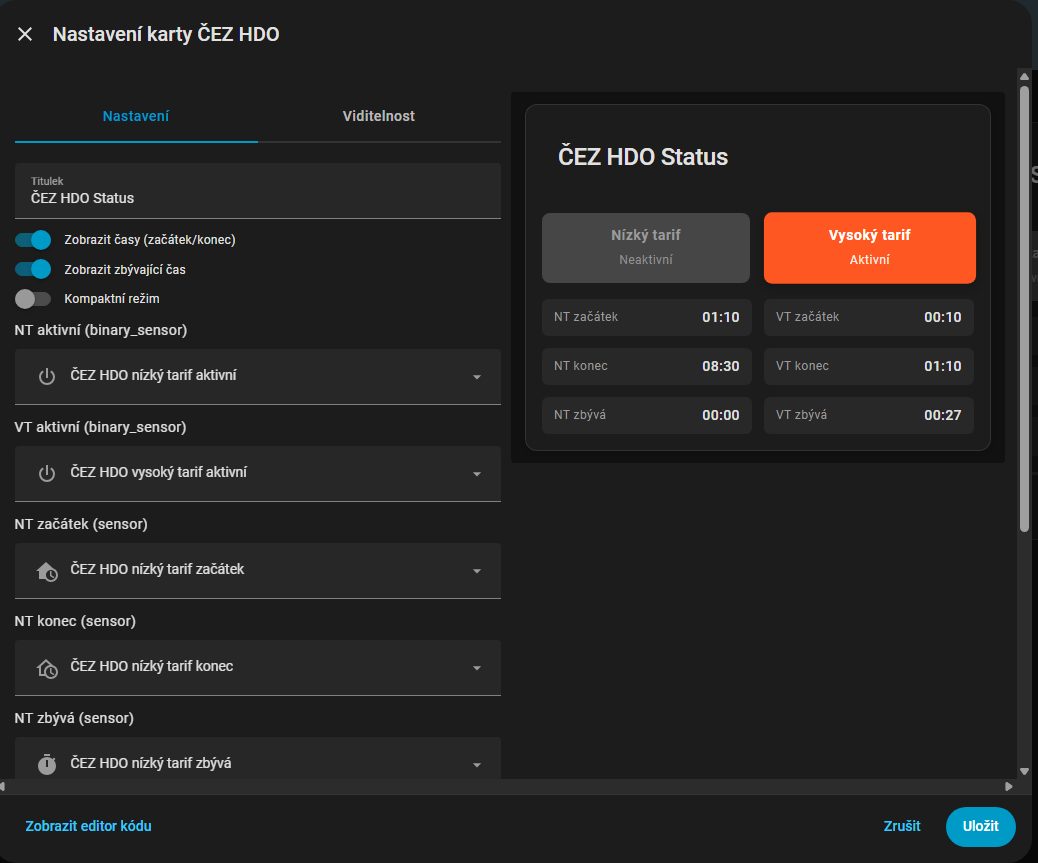
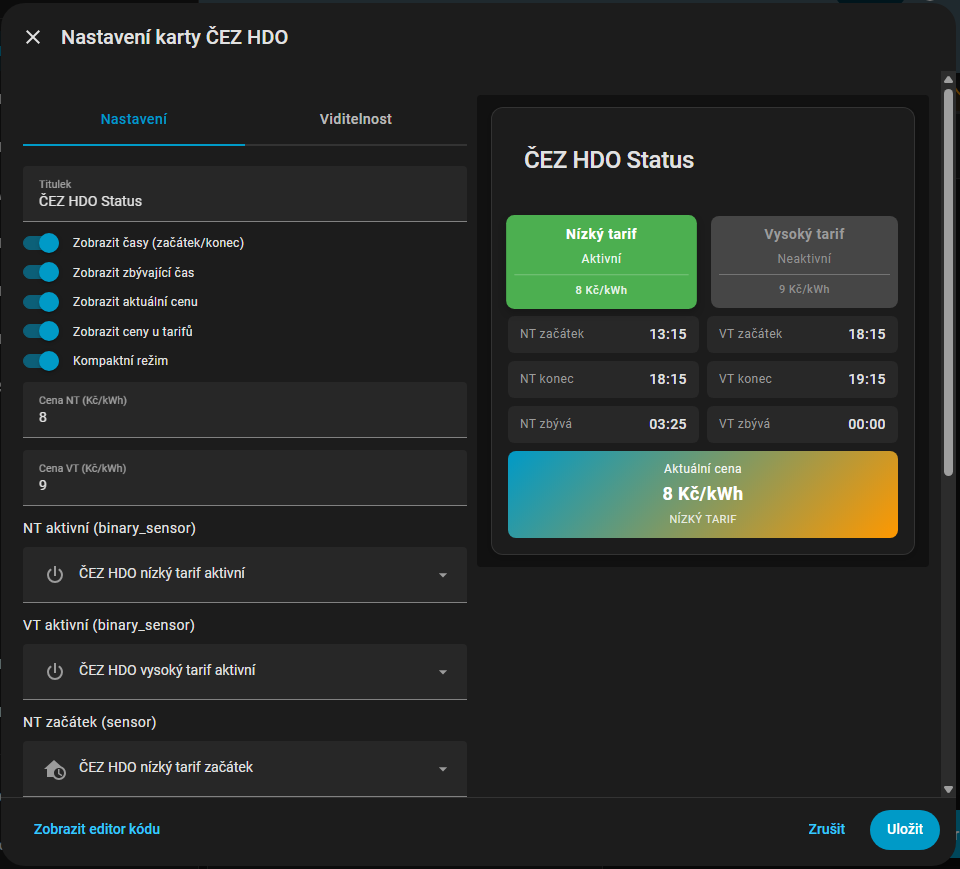
feat: přidání dokumentace pro nastavení cen tarifů a použití v Energy Dashboard

diff --git a/docs/user-guide.md b/docs/user-guide.md
@@ -56,6 +56,7 @@ Integrace vytváří tyto entity (výchozí názvy):
 - `sensor.cez_hdo_vysoky_tarif_zacatek` – čas začátku vysokého tarifu
 - `sensor.cez_hdo_vysoky_tarif_konec` – čas konce vysokého tarifu
 - `sensor.cez_hdo_vysoky_tarif_zbyva` – zbývající čas do změny tarifu
+- `sensor.cez_hdo_aktualni_cena` – aktuální cena elektřiny v Kč/kWh (podle aktivního tarifu)
 - `sensor.cez_hdo_surova_data` – surová data / timestamp (diagnostika)
 
 ## Lovelace karta
@@ -82,6 +83,46 @@ Pokud se karta v seznamu karet nezobrazuje ani po `Ctrl+F5`:
 1. URL: `/cez_hdo/cez-hdo-card.js`
 1. Typ: JavaScript Module
 1. Restart Home Assistant
+
+## Nastavení cen tarifů
+
+### Nastavení v Lovelace kartě
+
+V editoru karty najdete pole pro zadání cen:
+
+- **Cena NT (Kč/kWh)** – cena za kWh v nízkém tarifu
+- **Cena VT (Kč/kWh)** – cena za kWh ve vysokém tarifu
+
+Po zadání cen a uložení karty se automaticky aktualizuje senzor `sensor.cez_hdo_aktualni_cena`.
+
+### Nastavení přes službu
+
+Ceny lze nastavit i přes službu:
+
+```yaml
+service: cez_hdo.set_prices
+data:
+  low_tariff_price: 2.50
+  high_tariff_price: 4.50
+```
+
+### Zobrazení cen v kartě
+
+V editoru karty jsou dva přepínače:
+
+- **Zobrazit aktuální cenu** – zobrazí velký box s aktuální cenou
+- **Zobrazit ceny u tarifů** – zobrazí cenu přímo v boxu NT/VT
+
+## Použití v Energy Dashboard
+
+Senzor `sensor.cez_hdo_aktualni_cena` lze použít jako zdroj ceny elektřiny v Energy kartě Home Assistantu.
+
+1. Nastavení → Dashboardy → Energy
+2. V sekci "Electricity grid" klikněte na "Add consumption"
+3. Vyberte měřič spotřeby
+4. V poli "Use an entity tracking the total costs" nebo "Use an entity with current price" vyberte `sensor.cez_hdo_aktualni_cena`
+
+Senzor automaticky přepíná mezi cenou NT a VT podle aktivního tarifu.
 
 ## Co dělat, když komponenta nefunguje
 

diff --git a/README.md b/README.md
@@ -39,6 +39,12 @@ binary_sensor:
 
 ![Konfigurace karty (editor)](entity_card_edit.png)
 
+### Použití v Energy Dashboard
+
+Senzor `sensor.cez_hdo_aktualni_cena` lze použít jako zdroj ceny elektřiny v Energy kartě Home Assistantu:
+
+![Nastavení Energy karty](integration_energy_ha.png)
+
 ## Vytvářené entity (výchozí názvy)
 
 Binary sensories:
@@ -54,6 +60,7 @@ Senzory:
 - `sensor.cez_hdo_vysoky_tarif_zacatek` – čas začátku VT
 - `sensor.cez_hdo_vysoky_tarif_konec` – čas konce VT
 - `sensor.cez_hdo_vysoky_tarif_zbyva` – zbývající čas do změny tarifu
+- `sensor.cez_hdo_aktualni_cena` – aktuální cena elektřiny v Kč/kWh (lze použít v Energy Dashboard)
 - `sensor.cez_hdo_surova_data` – surová data / timestamp (diagnostika)
 
 ## Když to nefunguje (doporučený postup)
@@ -65,6 +72,7 @@ Pokud se karta nezobrazuje, hlásí chybu, nebo integrace po instalaci “nejede
 3. Pokud existuje složka `www/cez_hdo`, smažte ji
 4. Znovu nainstalovat doplněk
 5. Restart Home Assistant
+6. Vynutit refresh: `Ctrl+F5`
 
 ## Dokumentace
 

diff --git a/docs/service-guide.md b/docs/service-guide.md
@@ -18,6 +18,26 @@ Kde to uvidíte:
 
 - Nastavení → Systém → Protokoly (Logs)
 
+## `cez_hdo.set_prices`
+
+Nastaví ceny pro nízký a vysoký tarif. Ceny se uloží perzistentně a přežijí restart Home Assistantu.
+
+Použití:
+
+```yaml
+action: cez_hdo.set_prices
+data:
+  low_tariff_price: 2.50
+  high_tariff_price: 4.50
+```
+
+Parametry:
+
+- `low_tariff_price` – cena za kWh v nízkém tarifu (NT) v Kč
+- `high_tariff_price` – cena za kWh ve vysokém tarifu (VT) v Kč
+
+Po nastavení se automaticky aktualizuje senzor `sensor.cez_hdo_aktualni_cena`.
+
 ## `cez_hdo.reload_frontend_card`
 
 Znovu nasadí/obnoví frontend soubor karty (užitečné při vývoji nebo když se karta nenačítá).
